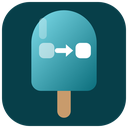
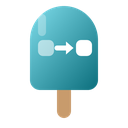
use the mark exactly as drawn
logo.svg is now byte for byte the master from the design review. No badge, no
scaling, no repositioned highlight. My earlier changes were solving for how the
mark behaves in a platform's square, and that was not what was asked for.

The packaging around it stays: 512 master render, 128 downscale for NuGet since
it rejects SVG and a direct 128 render of this detail comes out muddy,
PackageIcon wired once in Directory.Build.props for all twelve packages, and a
pack gate that fails when the icon is missing from the nupkg or undeclared in
the nuspec.

diff --git a/CHANGELOG.md b/CHANGELOG.md
@@ -116,7 +116,8 @@ members are now mapped instead of dropped.
   It is a separate package because the core declares no dependencies and a CI gate enforces that.
   ([#44](https://github.com/BaryoDev/Mapsicle/issues/44))
 - **A package icon.** All twelve packages listed on nuget.org with no mark. `assets/logo.svg` is
-  the master; `assets/icon.png` is the 128px raster NuGet requires, wired once in
+  the master; `assets/icon.png` is the 128px raster NuGet requires, downscaled from a 512 render
+  because rasterising that detail directly at 128 comes out muddy. `PackageIcon` is wired once in
   `src/Directory.Build.props` and inherited by every package. A pack gate fails if the icon is
   absent from the nupkg or undeclared in the nuspec, because NuGet quietly lists a placeholder
   rather than refusing the push. The listing reads its icon from the newest version, so it appears
